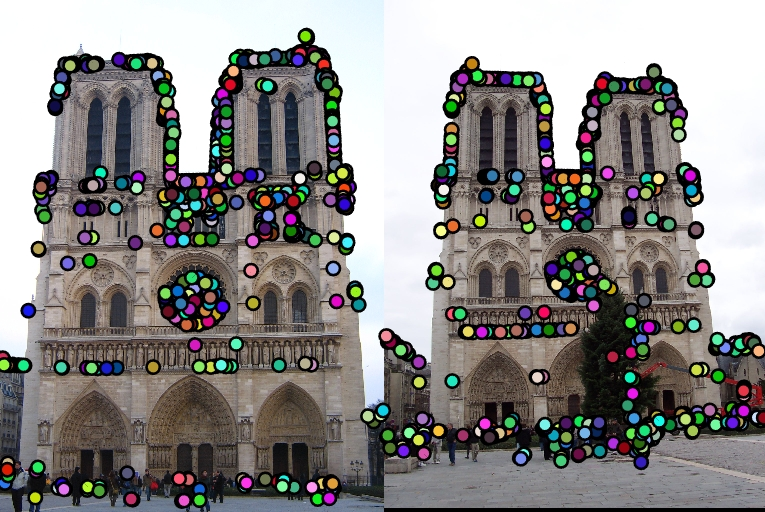
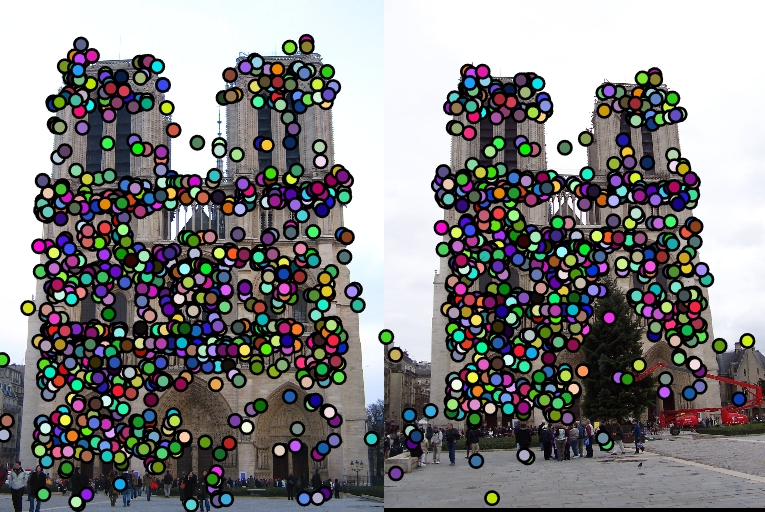
switched over to SIFT feature point extraction and have it working

diff --git a/getFeatureMatches.m b/getFeatureMatches.m
@@ -1,0 +1,47 @@
+function [matches, score] = getFeatureMatches(d1, d2, thresh)
+
+score   = zeros(1);
+matches = zeros(2,1);
+
+% d1_best_index = 0;
+% d2_best_index = 0;
+
+% size(d1, 2)
+% size(d2, 2)
+
+match_index = 1;
+
+for i=1:size(d1, 2)
+    
+    best_cost      = 999999999999;
+    next_best_cost = 999999999999;
+
+    for k=1:size(d2, 2)   
+        c = computeDescriptorDistance(d1(:,i), d2(:,k));
+        
+        if ( c < best_cost )
+            best_cost = c;
+            d1_best_index = i;
+            d2_best_index = k;
+        elseif ( c < next_best_cost)
+            next_best_cost = c;
+        end
+    end
+    
+    s = best_cost / next_best_cost;
+    
+    if ( s < thresh )
+
+        matches(:,match_index) = [ d1_best_index, d2_best_index ]';
+        score(match_index) = s;
+        match_index = match_index + 1;
+    end
+end
+
+end
+
+
+function cost = computeDescriptorDistance(d1, d2)
+    diff = (double(d1) - double(d2)).^2;
+    cost = sum(diff);
+end

diff --git a/getFeaturePoints2.m b/getFeaturePoints2.m
@@ -1,0 +1,22 @@
+function fpvec = getFeaturePoints2(imgA, imgB, thresh)
+
+peak_thresh = 0.015;
+edge_thresh = 2.0;
+
+[f1,d1] = vl_sift(single(rgb2gray(imgA)), 'PeakThresh', peak_thresh, 'edgethresh', edge_thresh );
+[f2,d2] = vl_sift(single(rgb2gray(imgB)), 'PeakThresh', peak_thresh, 'edgethresh', edge_thresh );
+
+matches = getFeatureMatches(d1, d2, thresh);
+
+%size(matches, 2)
+
+fpvec = zeros(1,4);
+for i=1:size(matches, 2)
+    fpvec(i,:) = [f1((1:2), matches(1,i))' f2((1:2), matches(2,i))'];
+end
+
+%h = show_correspondence2(imgA, imgB, fpvec(:,1), fpvec(:,2), fpvec(:,3), fpvec(:,4));
+
+
+
+

diff --git a/startup.m b/startup.m
@@ -1,0 +1,1 @@
+run('C:\Users\Curtis\vlfeat-0.9.21\toolbox\vl_setup.m')
